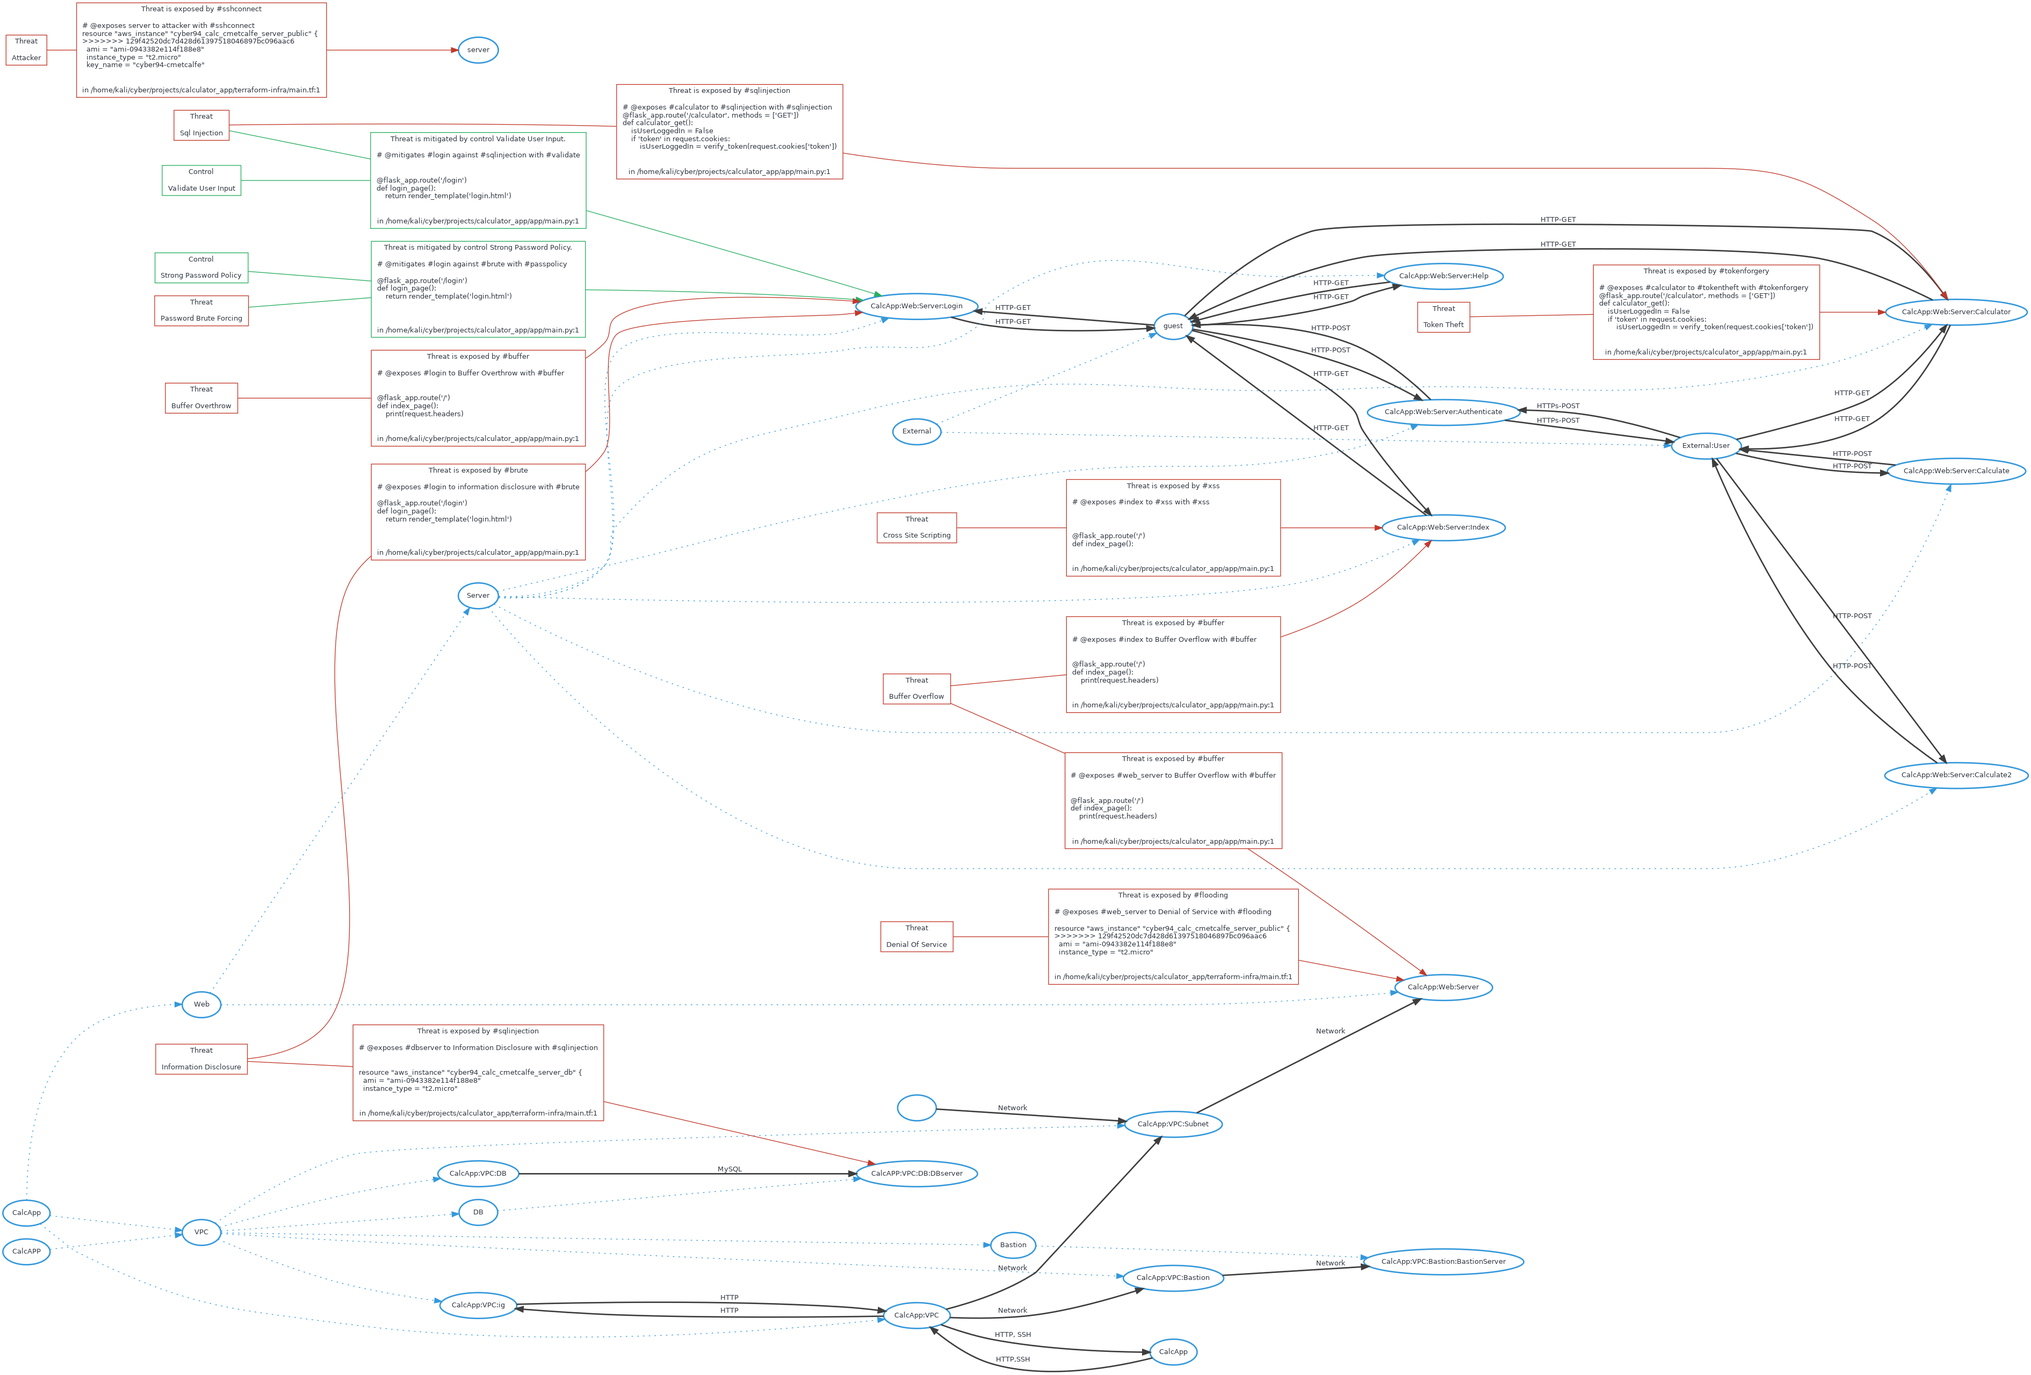
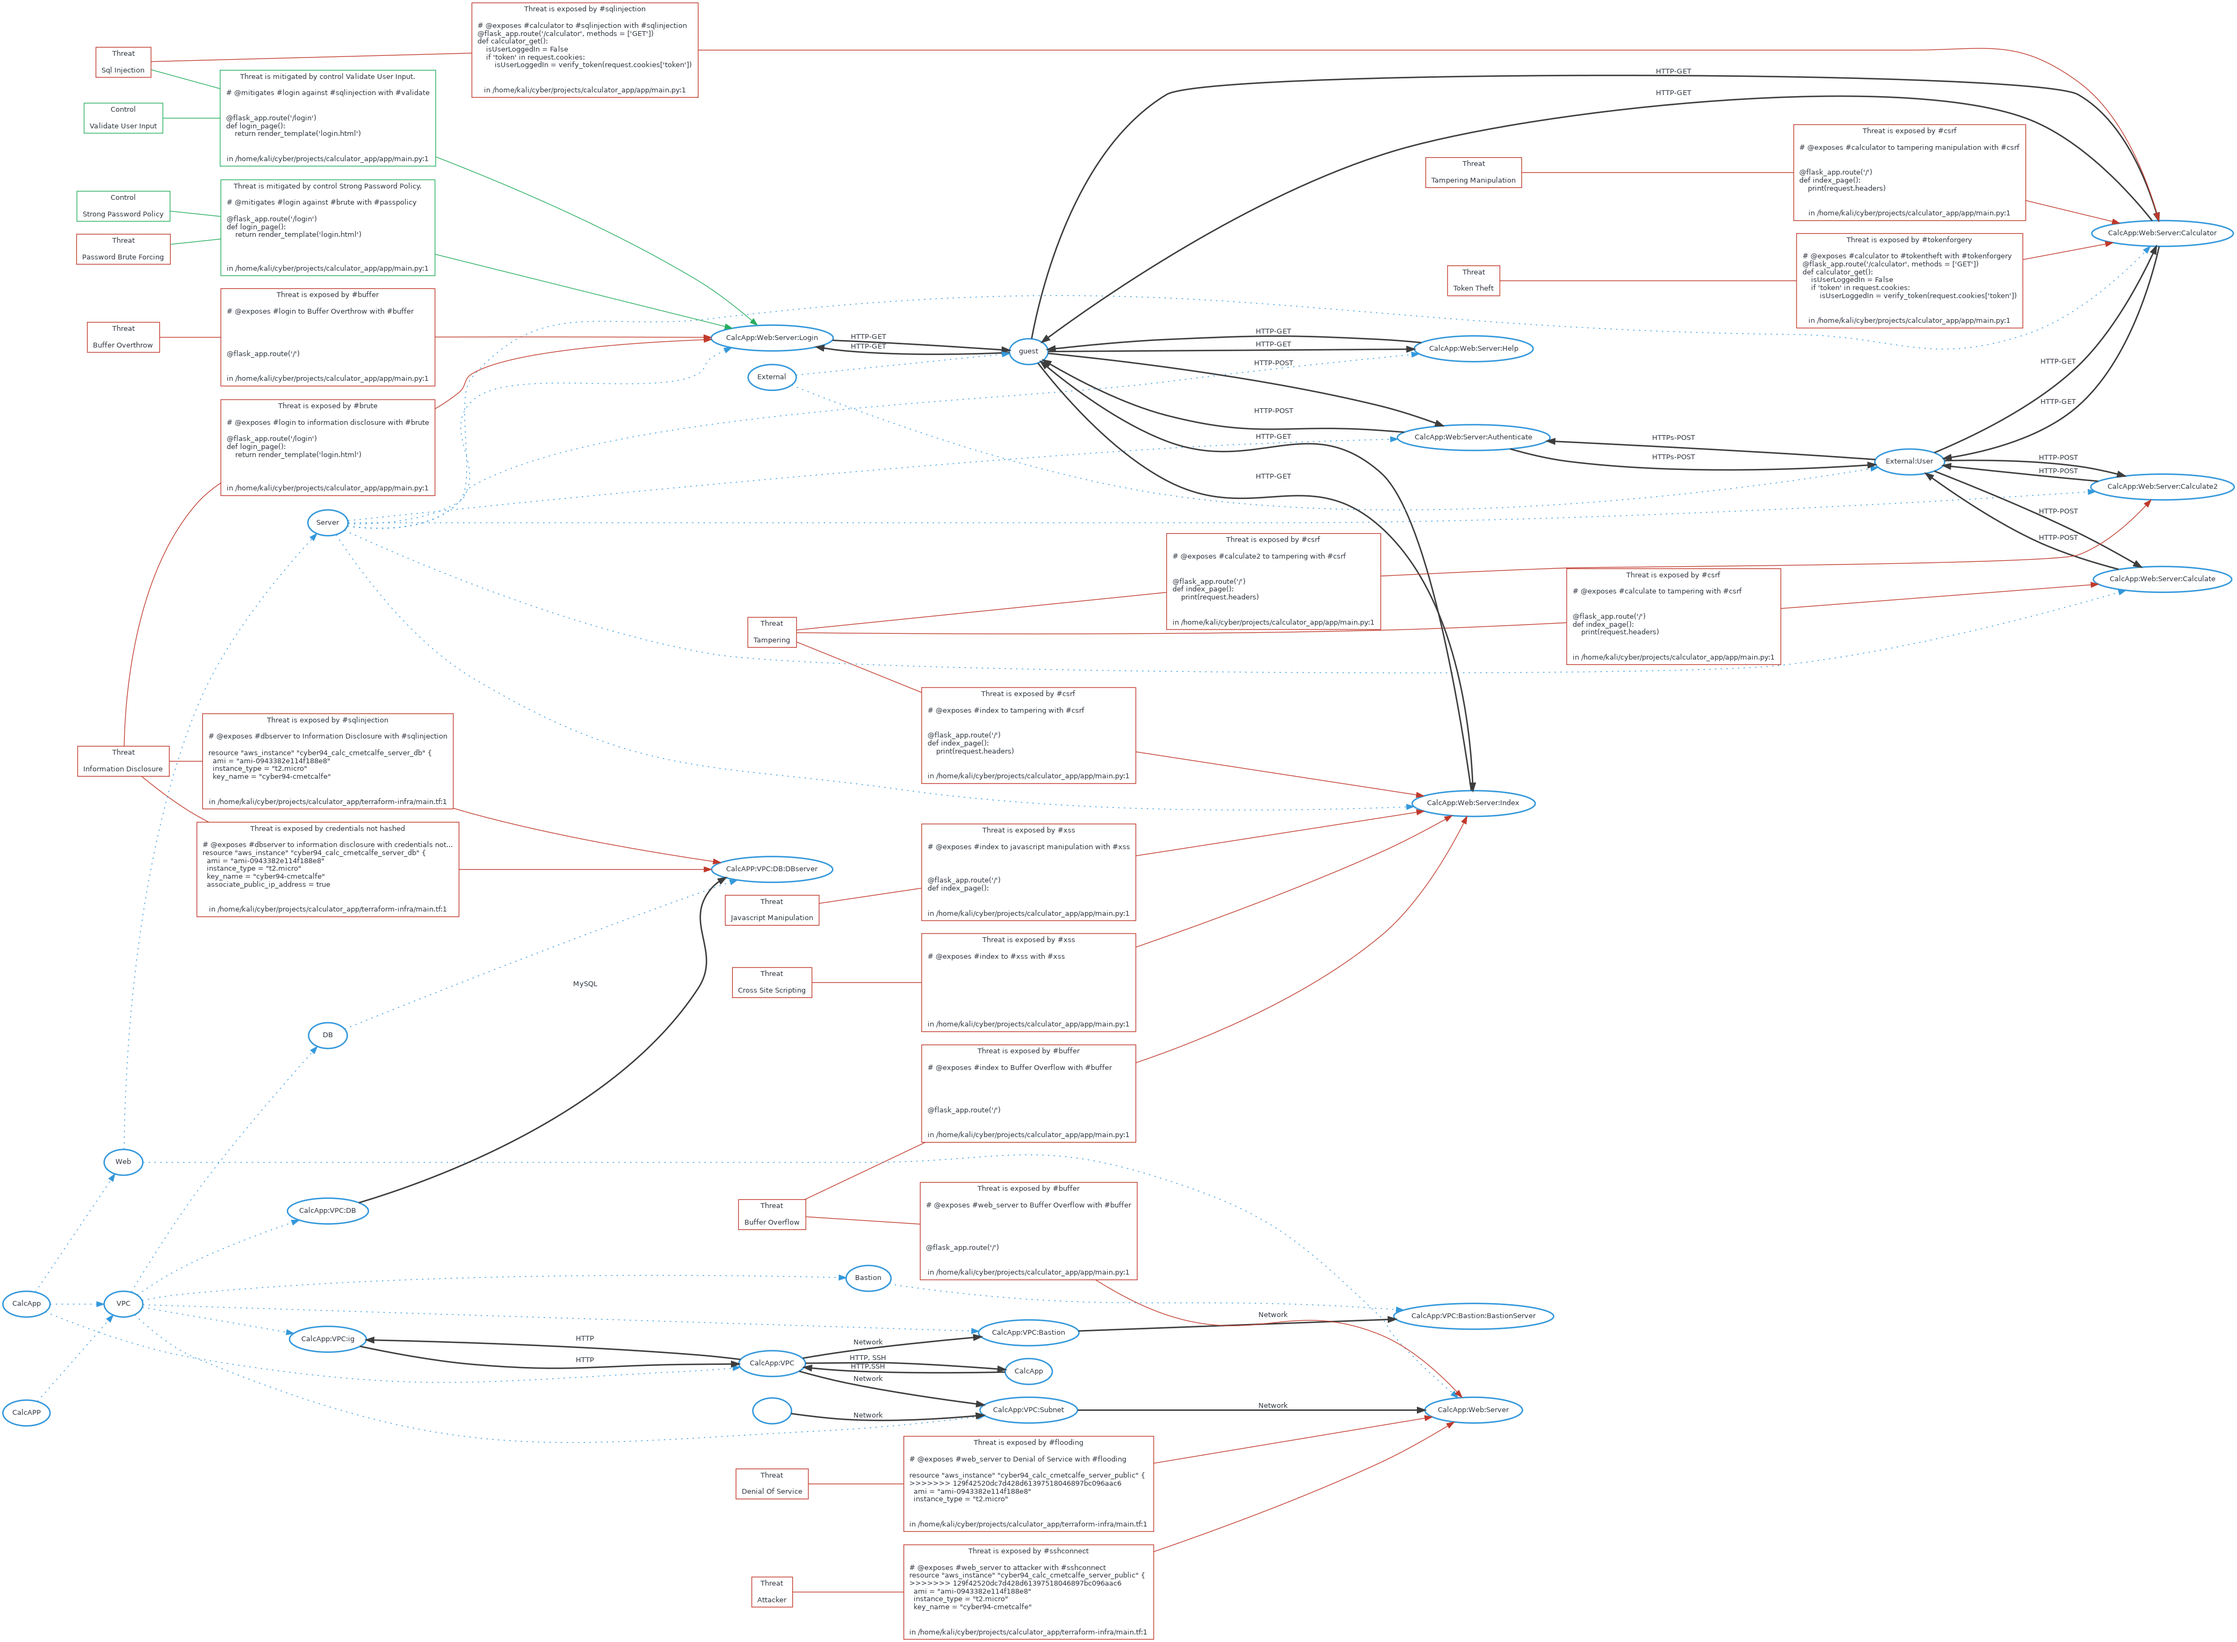
add more threats

diff --git a/app/main.py b/app/main.py
@@ -34,6 +34,15 @@ def verify_token(token):
 # @exposes #login to Buffer Overthrow with #buffer
 # @exposes #web_server to Buffer Overflow with #buffer
 
+# @threat Cross site scripting (reflected) (#xss)
+# @exposes #index to javascript manipulation with #xss
+
+# @threat Cross Site Request Forgery (#csrf)
+# @exposes #index to tampering with #csrf
+# @exposes #calculate to tampering with #csrf
+# @exposes #calculate2 to tampering with #csrf
+# @exposes #calculator to tampering manipulation with #csrf
+
 
 @flask_app.route('/')
 def index_page():

diff --git a/ThreatModel.md b/ThreatModel.md
@@ -18,8 +18,8 @@ A threatspec project.
 
 
 
-@flask_app.route('/')
-def index_page():
+
+
 
 ```
 /home/kali/cyber/projects/calculator_app/app/main.py:1
@@ -31,9 +31,9 @@ def index_page():
 # @exposes #index to Buffer Overflow with #buffer
 
 
+
+
 @flask_app.route('/')
-def index_page():
-    print(request.headers)
 
 ```
 /home/kali/cyber/projects/calculator_app/app/main.py:1
@@ -45,9 +45,9 @@ def index_page():
 # @exposes #login to Buffer Overthrow with #buffer
 
 
+
+
 @flask_app.route('/')
-def index_page():
-    print(request.headers)
 
 ```
 /home/kali/cyber/projects/calculator_app/app/main.py:1
@@ -57,6 +57,76 @@ def index_page():
 
 ```
 # @exposes #web_server to Buffer Overflow with #buffer
+
+
+
+
+@flask_app.route('/')
+
+```
+/home/kali/cyber/projects/calculator_app/app/main.py:1
+
+## Javascript manipulation against CalcApp:Web:Server:Index
+#xss
+
+```
+# @exposes #index to javascript manipulation with #xss
+
+
+
+@flask_app.route('/')
+def index_page():
+
+```
+/home/kali/cyber/projects/calculator_app/app/main.py:1
+
+## Tampering against CalcApp:Web:Server:Index
+#csrf
+
+```
+# @exposes #index to tampering with #csrf
+
+
+@flask_app.route('/')
+def index_page():
+    print(request.headers)
+
+```
+/home/kali/cyber/projects/calculator_app/app/main.py:1
+
+## Tampering against CalcApp:Web:Server:Calculate
+#csrf
+
+```
+# @exposes #calculate to tampering with #csrf
+
+
+@flask_app.route('/')
+def index_page():
+    print(request.headers)
+
+```
+/home/kali/cyber/projects/calculator_app/app/main.py:1
+
+## Tampering against CalcApp:Web:Server:Calculate2
+#csrf
+
+```
+# @exposes #calculate2 to tampering with #csrf
+
+
+@flask_app.route('/')
+def index_page():
+    print(request.headers)
+
+```
+/home/kali/cyber/projects/calculator_app/app/main.py:1
+
+## Tampering manipulation against CalcApp:Web:Server:Calculator
+#csrf
+
+```
+# @exposes #calculator to tampering manipulation with #csrf
 
 
 @flask_app.route('/')
@@ -122,11 +192,11 @@ resource "aws_instance" "cyber94_calc_cmetcalfe_server_public" {
 ```
 /home/kali/cyber/projects/calculator_app/terraform-infra/main.tf:1
 
-## Attacker against server
+## Attacker against CalcApp:Web:Server
 #sshconnect
 
 ```
-# @exposes server to attacker with #sshconnect
+# @exposes #web_server to attacker with #sshconnect
 resource "aws_instance" "cyber94_calc_cmetcalfe_server_public" {
 >>>>>>> 129f42520dc7d428d61397518046897bc096aac6
   ami = "ami-0943382e114f188e8"
@@ -142,10 +212,24 @@ resource "aws_instance" "cyber94_calc_cmetcalfe_server_public" {
 ```
 # @exposes #dbserver to Information Disclosure with #sqlinjection
 
-
 resource "aws_instance" "cyber94_calc_cmetcalfe_server_db" {
   ami = "ami-0943382e114f188e8"
   instance_type = "t2.micro"
+  key_name = "cyber94-cmetcalfe"
+
+```
+/home/kali/cyber/projects/calculator_app/terraform-infra/main.tf:1
+
+## Information disclosure against CalcAPP:VPC:DB:DBserver
+Credentials not hashed
+
+```
+# @exposes #dbserver to information disclosure with credentials not hashed
+resource "aws_instance" "cyber94_calc_cmetcalfe_server_db" {
+  ami = "ami-0943382e114f188e8"
+  instance_type = "t2.micro"
+  key_name = "cyber94-cmetcalfe"
+  associate_public_ip_address = true
 
 ```
 /home/kali/cyber/projects/calculator_app/terraform-infra/main.tf:1
@@ -202,7 +286,7 @@ HTTP-GET
 
 
 
-@flask_app.route('/')
+
 
 ```
 /home/kali/cyber/projects/calculator_app/app/main.py:1
@@ -216,7 +300,7 @@ HTTP-GET
 
 
 
-@flask_app.route('/')
+
 
 ```
 /home/kali/cyber/projects/calculator_app/app/main.py:1
@@ -578,9 +662,9 @@ MySQL
 # @connects #db to #dbserver with MySQL
 
 
-
 resource "aws_instance" "cyber94_calc_cmetcalfe_server_db" {
   ami = "ami-0943382e114f188e8"
+  instance_type = "t2.micro"
 
 ```
 /home/kali/cyber/projects/calculator_app/terraform-infra/main.tf:1
@@ -594,9 +678,11 @@ resource "aws_instance" "cyber94_calc_cmetcalfe_server_db" {
 
 ## CalcApp:Web:Server
 
-## CalcApp:Web:Server:Calculator
+## CalcApp:Web:Server:Calculate
 
-## server
+## CalcApp:Web:Server:Calculate2
+
+## CalcApp:Web:Server:Calculator
 
 ## CalcAPP:VPC:DB:DBserver
 
@@ -607,10 +693,6 @@ resource "aws_instance" "cyber94_calc_cmetcalfe_server_db" {
 ## CalcApp:Web:Server:Authenticate
 
 ## External:User
-
-## CalcApp:Web:Server:Calculate
-
-## CalcApp:Web:Server:Calculate2
 
 ## CalcApp
 
@@ -644,6 +726,15 @@ resource "aws_instance" "cyber94_calc_cmetcalfe_server_db" {
 
 
 ## Buffer overthrow
+
+
+## Javascript manipulation
+
+
+## Tampering
+
+
+## Tampering manipulation
 
 
 ## Information disclosure
